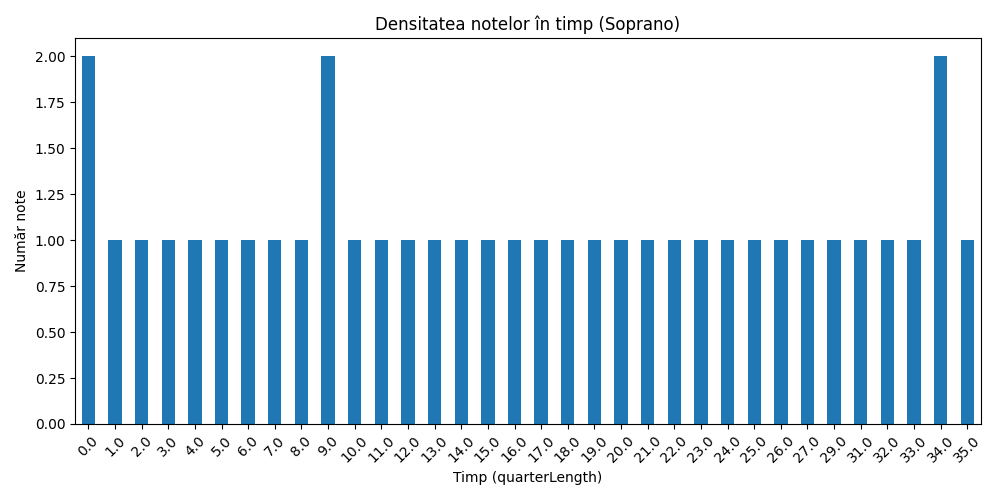
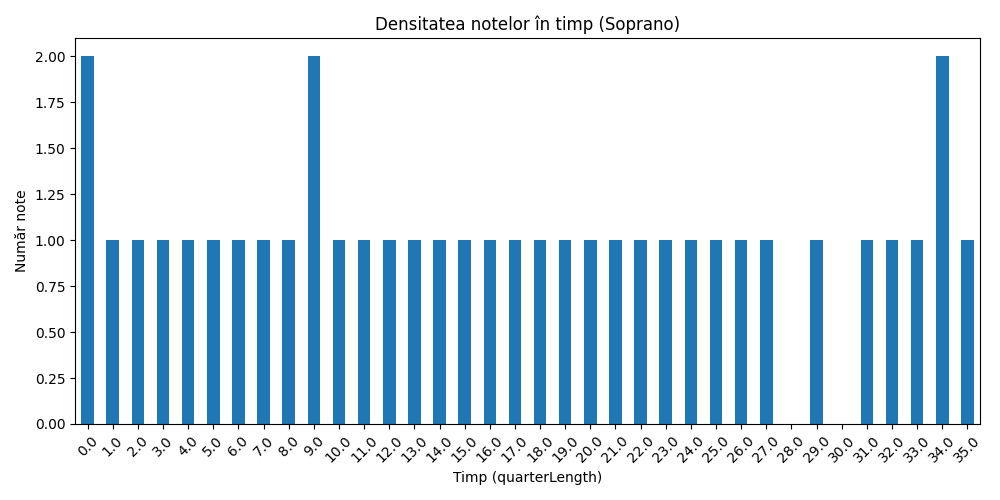
Update graphics

Changed region(s): [[0.093, 0.09, 0.961, 0.93]]

diff --git a/analizare_note.py b/analizare_note.py
@@ -85,23 +85,40 @@ def analiza_densitate(note, instr, output_dir="analize", bin_size=1.0):
         instr (str): vocea curentă
         output_dir (str): directorul unde se salvează fișierele
         bin_size (float): dimensiunea bin-ului pentru analiza densității
-
     """
     # Grupare pe intervale de timp
     note = note.copy()
+    if 'offset' not in note.columns:
+        print(f"Coloana 'offset' lipsește în datele pentru {instr}. Se omite analiza densității.")
+        return
+
     note['time_bin'] = (note['offset'] // bin_size) * bin_size
     density = note.groupby('time_bin').size().reset_index()
     density.columns = ['time_bin', 'count']
 
+    # Determină intervalul complet de timp
+    min_time = note['offset'].min() if not note.empty else 0
+    max_time = note['offset'].max() if not note.empty else 0
+    if min_time == max_time:  # Dacă nu există variație, creează un singur bin
+        time_bins = [min_time]
+    else:
+        time_bins = [min_time + i * bin_size for i in range(int((max_time - min_time) / bin_size) + 1)]
+
+    # Creează un DataFrame cu toate intervalele de timp posibile
+    all_bins = pd.DataFrame({'time_bin': time_bins})
+
+    # Îmbină cu densitatea existentă și completează cu zerouri
+    density_full = all_bins.merge(density, on='time_bin', how='left').fillna(0)
+    density_full['count'] = density_full['count'].astype(int)
+
     instrument_dir = os.path.join(output_dir, instr)
     os.makedirs(instrument_dir, exist_ok=True)
     output_file = os.path.join(instrument_dir, f"densitate_{instr}.csv")
-    density.to_csv(output_file, index=False)
+    density_full.to_csv(output_file, index=False)
     print(f"Densitatea notelor ({instr}) salvată în: {output_file}")
     
     # Grafic
-    grafic_densitate(instr, density, instrument_dir)
-
+    grafic_densitate(instr, density_full, instrument_dir)
 
 def analiza_note(csv_file, output_dir, output_subdir = "analiza_note"):
     """
